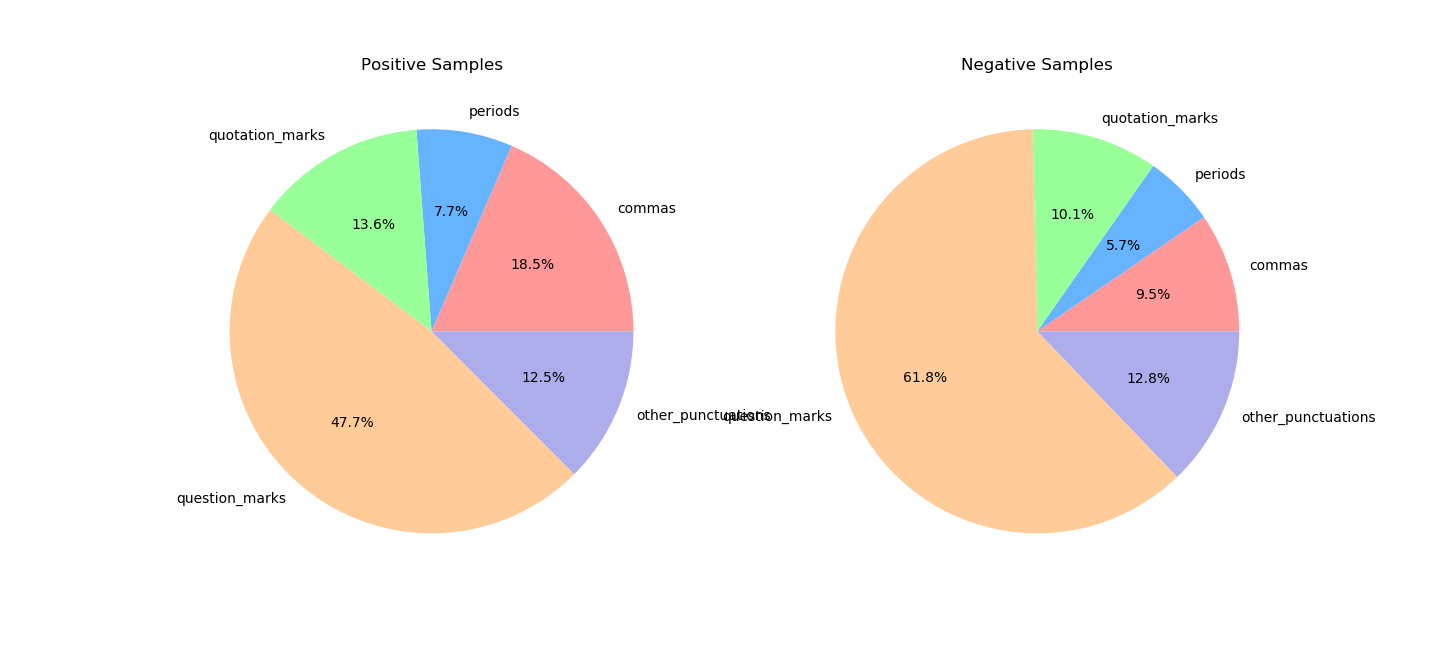
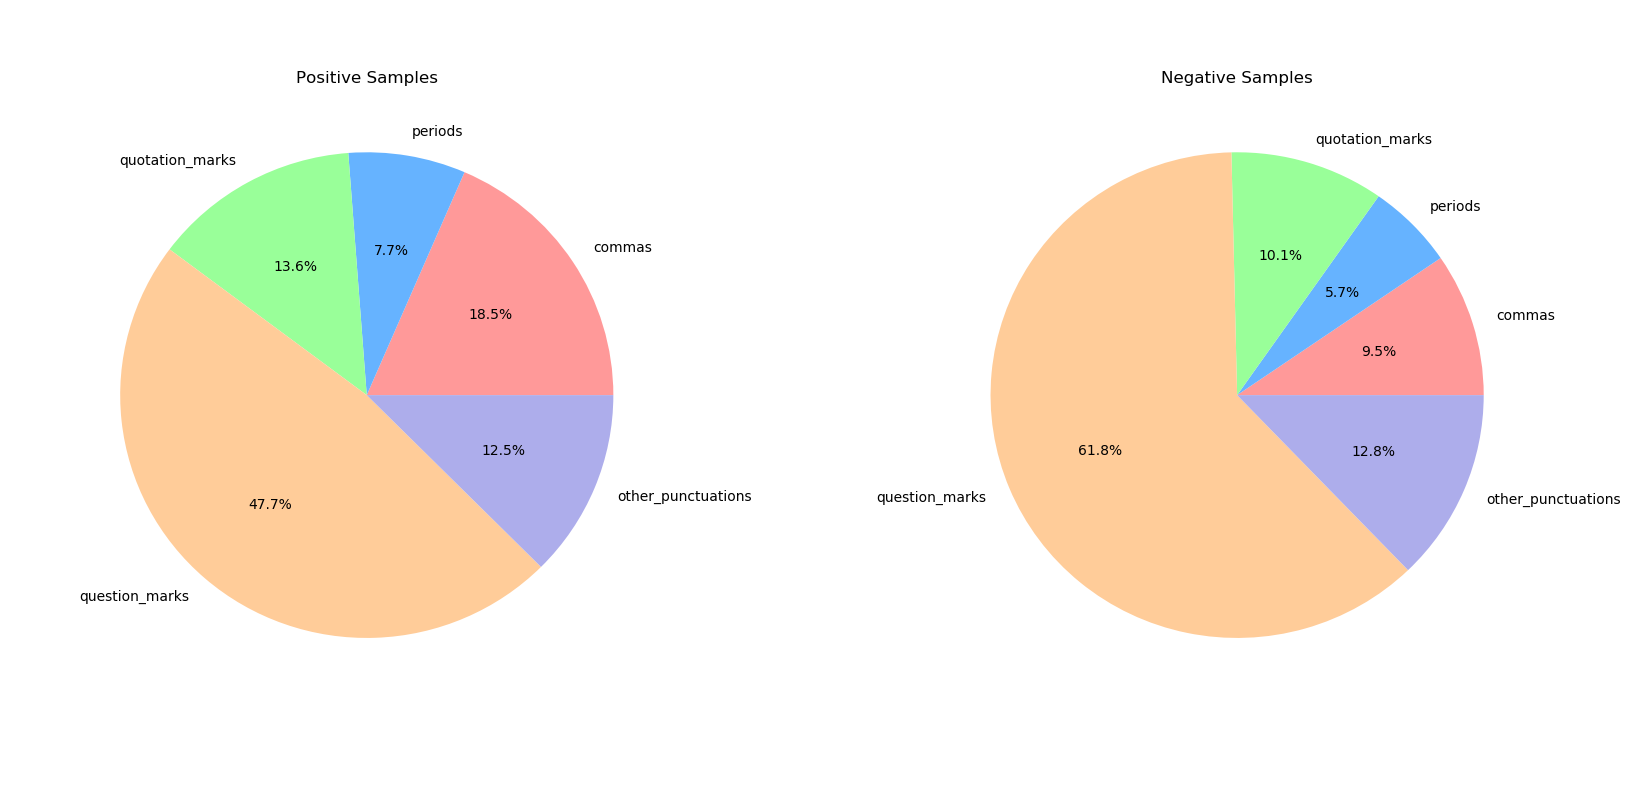
fixed pie charts, updated report content, almost finished nn

diff --git a/report/csc2511.tex b/report/csc2511.tex
@@ -173,11 +173,25 @@ Using KS test for discrete distributions is a compromised choice the test is les
 
 Another feature that we intend to add to our analysis is the sentiment measurement from TextBlob library. We believe that directly feeding sentiment information to our model would be beneficial because a non-neutral tone is one of the main indicators of insincere questions. 
 
+\begin{table}[h!]
+\resizebox{\textwidth}{!}{%
+\begin{tabular}{|l|l|l|l|ll}
+\cline{1-4}
+& punctuation marks & PoS tags & named entities &  &  \\ \cline{1-4}
+\begin{tabular}[c]{@{}l@{}}Statistically \\ Significant \\ Features\end{tabular} & \begin{tabular}[c]{@{}l@{}}all punctuation marks \\- (from string.punctuations)\\ commas\\ periods\\ quotation marks\\ question marks\\ other punctuation marks\end{tabular} & \begin{tabular}[c]{@{}l@{}}ADJ: adjective\\ ADP:  adposition\\ ADV:  adverb\\ CCONJ:  coordinating conjunction\\ DET:  determiner\\ NOUN:  noun\\ NUM:  numeral\\ PART:  particle\\ PRON:  pronoun\\ PROPN:  proper noun\\ VERB:  verb\end{tabular} & \begin{tabular}[c]{@{}l@{}}PERSON\\-  People, including fictional. \\ NORP\\-  Nationalities or religious or political groups. \\ ORG\\-  Companies, agencies, institutions, etc. \\ GPE\\-  Countries, cities, states. \\ LOC\\-  Non-GPE locations, mountain ranges, bodies of water. \\ DATE\\-  Absolute or relative dates or periods. \\ CARDINAL\\-  Numerals that do not fall under another type.\end{tabular}                      &  &  \\ \cline{1-4}
+others                                  & exclamation marks                     & \begin{tabular}[c]{@{}l@{}}AUX: auxiliary\\ INTJ: interjection\\ SCONJ: subordinating conjunction\\ SYM: symbol\\ X: other\end{tabular}          & \begin{tabular}[c]{@{}l@{}}FAC\\-  Buildings, airports, highways, bridges, etc.\\ PRODUCT\\-  Objects, vehicles, foods, etc. (Not services.)\\ EVENT\\-  Named hurricanes, battles, wars, sports events, etc.\\ TIME\\-  Times smaller than a day. \\ PERCENT\\-  Percentage, including "\%". \\ MONEY\\-  Monetary values, including unit. \\ QUANTITY\\-  Measurements, as of weight or distance. \\ WORK\_OF\_ART\\-  Titles of books, songs, etc. \\ LAW\\-  Named documents made into laws. \\ LANGUAGE\\-  Any named language.\\ ORDINAL\\-  "first", "second", etc.\end{tabular} &  &  \\ \cline{1-4}
+\end{tabular}%
+}
+\caption{Features for KS tests}
+ \label{table:stats-features}
+\end{table}
+
+
 \subsubsection{Visualization}
 
 To visualize extracted statistical features about punctuation, parts-of-speech tag, and named entities at corpus level, we created bar plots for the counts of the occurrences over the entire corpus. To visualize the distributions at sentence level, we used boxplots. For certain features of which the distributions are extremely skewed, our visualization methods may not provide the best representation. We have tried to use different types of plots to complement each other to partially solve this problem. For example, we created pie chart for punctuation marks to show the relative distribution in one sample population. Among the three aspects, the graphs showing the distributions of parts-of-speech tags are the most informative. As we are still refining these visualization techniques, here we only present some examples (figure \ref{figure:pos_bar}, figure \ref{figure:verb_box}, figure \ref{figure:puncpie}) to show our progress. 
 
-\begin{figure}
+\begin{figure}[h]
 	\centering
 	\includegraphics[width=\textwidth]{graphs/pos_bar.jpeg}
 	\caption{Bar plots of normalized counts of PoS tags in positive and negative samples}
@@ -188,7 +202,7 @@ To visualize extracted statistical features about punctuation, parts-of-speech t
 \end{figure}
 
 
-\begin{figure} 
+\begin{figure}[h] 
 	\includegraphics[height=5cm, center]{graphs/verb.png}
 	\caption{Boxplot for the distribuition of verbs in positive and negative samples}
 	\medskip
@@ -198,13 +212,15 @@ To visualize extracted statistical features about punctuation, parts-of-speech t
 \end{figure}
 
 
-\begin{figure} 
+\begin{figure}[h] 
 	\includegraphics[width=\textwidth, center]{graphs/puncpiecharts.png}
 	\caption{Pie charts for proportions of punctuations in positive and negative samples}
 	\medskip
 	\small
 	\label{figure:puncpie}
 \end{figure}
+
+In addition to the statictical data, we also plan to visualize the word embeddings of labeled and unlabelled sentences. Consider the size of our corpus, we will first extract the most frequent unigrams, and visualize the correponding word vectors using appropriate methods such as t-SNE plots. 
 
 
 \subsection{Word Embedding}
@@ -229,31 +245,23 @@ where $\mathbf { h } _ { k , 0 } ^ { L M }$ is token layer while ${ \mathbf { h 
 In our project, ELMo was applied and the task specific weighting of all three layers of representations shown as the equations 1 in  \citet{peters2018deep} (\textit{i.e.} character-convnet output and two LSTM outputs) would be find-tuned.
 
 
-
-\begin{table}[h!]
-\resizebox{\textwidth}{!}{%
-\begin{tabular}{|l|l|l|l|ll}
-\cline{1-4}
-& punctuation marks & PoS tags & named entities &  &  \\ \cline{1-4}
-\begin{tabular}[c]{@{}l@{}}Statistically \\ Significant \\ Features\end{tabular} & \begin{tabular}[c]{@{}l@{}}all punctuation marks \\- (from string.punctuations)\\ commas\\ periods\\ quotation marks\\ question marks\\ other punctuation marks\end{tabular} & \begin{tabular}[c]{@{}l@{}}ADJ: adjective\\ ADP:  adposition\\ ADV:  adverb\\ CCONJ:  coordinating conjunction\\ DET:  determiner\\ NOUN:  noun\\ NUM:  numeral\\ PART:  particle\\ PRON:  pronoun\\ PROPN:  proper noun\\ VERB:  verb\end{tabular} & \begin{tabular}[c]{@{}l@{}}PERSON\\-  People, including fictional. \\ NORP\\-  Nationalities or religious or political groups. \\ ORG\\-  Companies, agencies, institutions, etc. \\ GPE\\-  Countries, cities, states. \\ LOC\\-  Non-GPE locations, mountain ranges, bodies of water. \\ DATE\\-  Absolute or relative dates or periods. \\ CARDINAL\\-  Numerals that do not fall under another type.\end{tabular}                      &  &  \\ \cline{1-4}
-others                                  & exclamation marks                     & \begin{tabular}[c]{@{}l@{}}AUX: auxiliary\\ INTJ: interjection\\ SCONJ: subordinating conjunction\\ SYM: symbol\\ X: other\end{tabular}          & \begin{tabular}[c]{@{}l@{}}FAC\\-  Buildings, airports, highways, bridges, etc.\\ PRODUCT\\-  Objects, vehicles, foods, etc. (Not services.)\\ EVENT\\-  Named hurricanes, battles, wars, sports events, etc.\\ TIME\\-  Times smaller than a day. \\ PERCENT\\-  Percentage, including "\%". \\ MONEY\\-  Monetary values, including unit. \\ QUANTITY\\-  Measurements, as of weight or distance. \\ WORK\_OF\_ART\\-  Titles of books, songs, etc. \\ LAW\\-  Named documents made into laws. \\ LANGUAGE\\-  Any named language.\\ ORDINAL\\-  "first", "second", etc.\end{tabular} &  &  \\ \cline{1-4}
-\end{tabular}%
-}
-\caption{Features for KS tests}
- \label{table:stats-features}
-\end{table}
-
 \subsection{Neural Networks}
 
-The results of \citep{poria2017} indicated that compared to completely distributing word representations, modularized components with specific tasks could improve the overall performance of a CNN model. As we discussed in the previous sections, we have established several characteristics that indicate a Quora question to be insincere; therefore, the idea of combining various components each responsible for detecting different classification clues can be valuable for our project.  Also, SVM classifiers are known to be ideal for processing text data due to the sparse nature of text \citep{medhat2014}. One additional lesson from this study is that their CNN model with a relatively lower feature dimension (at 1,100) outperformed models using larger vector size (>500,000) both in terms of accuracy and computation speed \citep{poria2017}. 
+Based on our review of neural nerworks models in the field of sentiment analysis, we decided to adopt a CNN-LSTM-DNN model as illustrated in figure \ref{figure:nnarchitecture}. 
 
-Among RNN implementations, LSTMs are advantageous because such architecture is easier to train and suffers less from vanishing or exploding gradients. The combination of CNN and RNN networks is also  for the several reasons. First, convolutional layer helped to extract abstract and compact features to be used as inputs to LSTM network \citep{chan2015}, which in turn compensates for the disadvantage of fixed filter width of convolutional layers, allowing for better analysis of long-distance relationships over texts with various length. Additionally, the convolution layers reduce feature variations so that CNN-LSTM work more efficiently \citep{ghosh2016}.
+Studies have shown that compared to completely distributing word representations, modularized components with specific tasks could improve the overall performance of a CNN model \citep{poria2017}. As we discussed in the previous sections, we have established several characteristics that indicate a Quora question to be insincere; therefore, the idea of combining various components each responsible for detecting different classification clues can be valuable for our project. In our design, the network is generally divided into two components: a baseline CNN-LSTM model taking word vectors as inputs, and extracted syntactic and semantic features from existing libraries. Ideally, we intend to train the baseline model first, and feed the additional features (punctuation marks, named entities, PoS tags, and sentiment scores) one at a time to explore their effects on model performance. 
 
-\begin{figure} 
+Among RNN implementations, LSTMs are advantageous because such architecture is easier to train and suffers less from vanishing or exploding gradients. The combination of CNN and RNN networks is also for the several reasons. First, convolutional layer helped to extract abstract and compact features to be used as inputs to LSTM network \citep{chan2015}, which in turn compensates for the disadvantage of fixed filter width of convolutional layers, allowing for better analysis of long-distance relationships over texts with various length. Additionally, the convolution layers reduce feature variations so that CNN-LSTM work more efficiently \citep{ghosh2016}.
+
+To combine different components, we plan to feed the output of LSTM layers and the pre-extracted features into a fully connected layer to match the features into a more separable space. Another design is to first feed the extracted features into a fully connected layers, and than concatenate the output of this layer with the output of LSTMs as the input vector for the final fully connected layer. Consider that SVM classifiers are known to be ideal for processing text data due to the sparse nature of text \citep{medhat2014}, we apply SVM on top of the neural network for classification. 
+
+
+\begin{figure}[h!]
 	\includegraphics[height=0.7\textheight, center]{graphs/nn_architecture.png}
-	\caption{Pie charts for proportions of punctuations in positive and negative samples}
+	\caption{Illustration of neural networks architecture}
 	\medskip
 	\small
+	In this figure, the same types of components are shown in the same colours. The blocks with dashed lines correspond to layers that typically appear in a neural networks, but possibly hinder performance according previous studies. We decide to construct a baseline model without these layers, and add them in later to compare the performance if time allows. 
 	\label{figure:nnarchitecture}
 \end{figure}
 \subsection{Evaluating Metrics}
